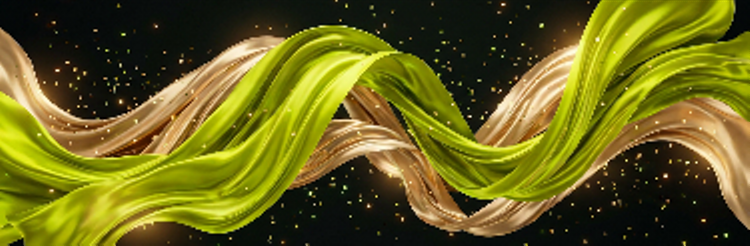
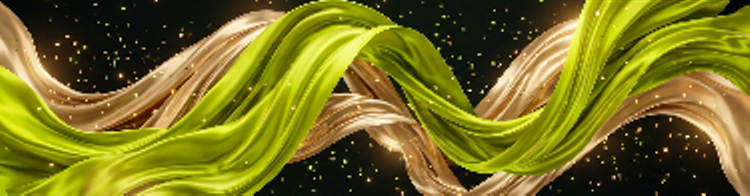
Artwork at the size an eventTicket actually draws
THE STRIPS WERE 25pt TOO TALL

Rendered at 375x123 for a storeCard. All five passes are eventTicket now, whose
strip is 375x98, and iOS does not reject a strip that is too tall — it crops it
to fit, off centre. That is a card that looks subtly wrong on a phone and
perfectly fine in every check we have. Re-rendered from the .jpg sources, which
were already 21:9 and are centre-cropped to the new ratio by _coverCrop.

The cards got smaller as well as shorter: 292KB of artwork per pass against
about 340KB, which is a download somebody is waiting on at a counter.

THE LOGO WAS AN ADVERTISEMENT

`logo.png` was the 160x43 wordmark, drawn in a 50pt box, which filled all 160pt
Apple allows. The top-left of every card — whoever issued it — said VESOPA in
full. A customer's loyalty card belongs to the pub, not to the company that
sells the pub its till.

It is now the `v` chevron alone at 22pt, from the crop the design shipped as
mark2x.png and committed here as the mark source. The venue's own name sits
beside it, because logoText carries issuer_name now rather than program_name.

WHY THE SDK CONSTRAINT MOVED

The pubspec asked for Dart ^3.12.2 and the Dart on this machine, the one Flutter
ships, is 3.11.3 — so the tool could not run at all and the artwork could not be
regenerated. Nothing in it uses anything newer than records. Widened to ^3.11.0
rather than left as a tool nobody can execute.

diff --git a/vesopa_server/tools/wallet_art/bin/build.dart b/vesopa_server/tools/wallet_art/bin/build.dart
@@ -16,7 +16,7 @@
 ///
 /// WHY THE STRIPS ARE CROPPED RATHER THAN SQUASHED
 ///
-/// The generated art is 21:9 (2.33:1) and Apple's strip is 375x123 (3.05:1).
+/// The generated art is 21:9 (2.33:1) and Apple's strip is 375x98 (3.83:1).
 /// Fitting one to the other by scaling both axes independently would stretch
 /// the artwork; taking the centre band keeps it. See [_coverCrop].
 library;
@@ -29,9 +29,16 @@ import 'package:image/image.dart' as img;
 /// server root, two levels up from this package.
 const _assets = '../../assets/wallet';
 
-/// Apple's strip, at each scale. 375x123 is the reference; the multiples are
+/// Apple's strip, at each scale. 375x98 is the reference; the multiples are
 /// what iOS actually asks for.
-const _stripSizes = {'': (375, 123), '@2x': (750, 246), '@3x': (1125, 369)};
+///
+/// 98pt, not 123. An `eventTicket` strip is 98pt tall and a `storeCard` one is
+/// 144 — these were rendered at 123 for the old style, and all five passes moved
+/// to `eventTicket` to get `groupingIdentifier` (see PASS_TYPES in
+/// src/wallet_google.js). A strip that is too tall is not rejected; iOS crops it
+/// to fit, off centre, which is a card that looks subtly wrong on a phone and
+/// perfectly fine everywhere it is checked.
+const _stripSizes = {'': (375, 98), '@2x': (750, 196), '@3x': (1125, 294)};
 
 /// Apple's icon. Required — an archive without one is rejected outright, with
 /// no message naming the file.
@@ -39,7 +46,12 @@ const _iconSizes = {'': 29, '@2x': 58, '@3x': 87};
 
 /// Apple's logo, as a maximum. The mark keeps its own proportions inside this
 /// box rather than being fitted to it.
-const _logoHeights = {'': 50, '@2x': 100, '@3x': 150};
+///
+/// 22pt, not 50. At 50 the wordmark filled all 160pt of Apple's logo box, so
+/// every card — whoever issued it — read as an advertisement for Vesopa rather
+/// than as the venue's own card. The chevron at 22pt sits beside the venue's
+/// name instead of instead of it. See [_logo] for which source that is.
+const _logoHeights = {'': 22, '@2x': 44, '@3x': 66};
 
 const _kinds = ['loyalty', 'customer', 'giftcard', 'staff', 'promo'];
 
@@ -141,17 +153,29 @@ void _icon() {
   }
 }
 
-/// The wordmark, on dark — which is what a Vesopa pass is.
+/// The chevron, on dark — a small mark beside the venue's name.
+///
+/// NOT the wordmark any more. `vesopa_logo_on_dark` is 160x43 of lettering, and
+/// at the old 50pt box it filled Apple's logo slot completely: the top-left of
+/// every card, whoever issued it, said VESOPA in full. A customer's loyalty card
+/// belongs to the pub, not to the company that sells the pub its till.
+///
+/// So the source is `mark` — the `v` chevron cropped out of that wordmark, with
+/// transparency around it — and it is drawn at 22pt beside the venue's name,
+/// which `logoText` now carries (see buildPassJson in src/wallet_apple.js).
+///
+/// Falls back to the wordmark if no chevron has been cropped, because a card
+/// with a slightly overbearing logo still works and a card with none looks
+/// broken.
 ///
 /// Trimmed first: the source has transparent margin around it, and Apple gives
 /// the logo a fixed box, so untrimmed padding shows up as a mark that looks too
 /// small and off-centre.
 void _logo() {
-  final source = _find(
-    '../../../vesopa_epos_display/assets/brand/vesopa_logo_on_dark',
-  );
+  final source = _find('$_assets/mark') ??
+      _find('../../../vesopa_epos_display/assets/brand/vesopa_logo_on_dark');
   if (source == null) {
-    stderr.writeln('! no wordmark found; logos not written');
+    stderr.writeln('! no mark or wordmark found; logos not written');
     return;
   }
   var decoded = img.decodeImage(source.readAsBytesSync());
